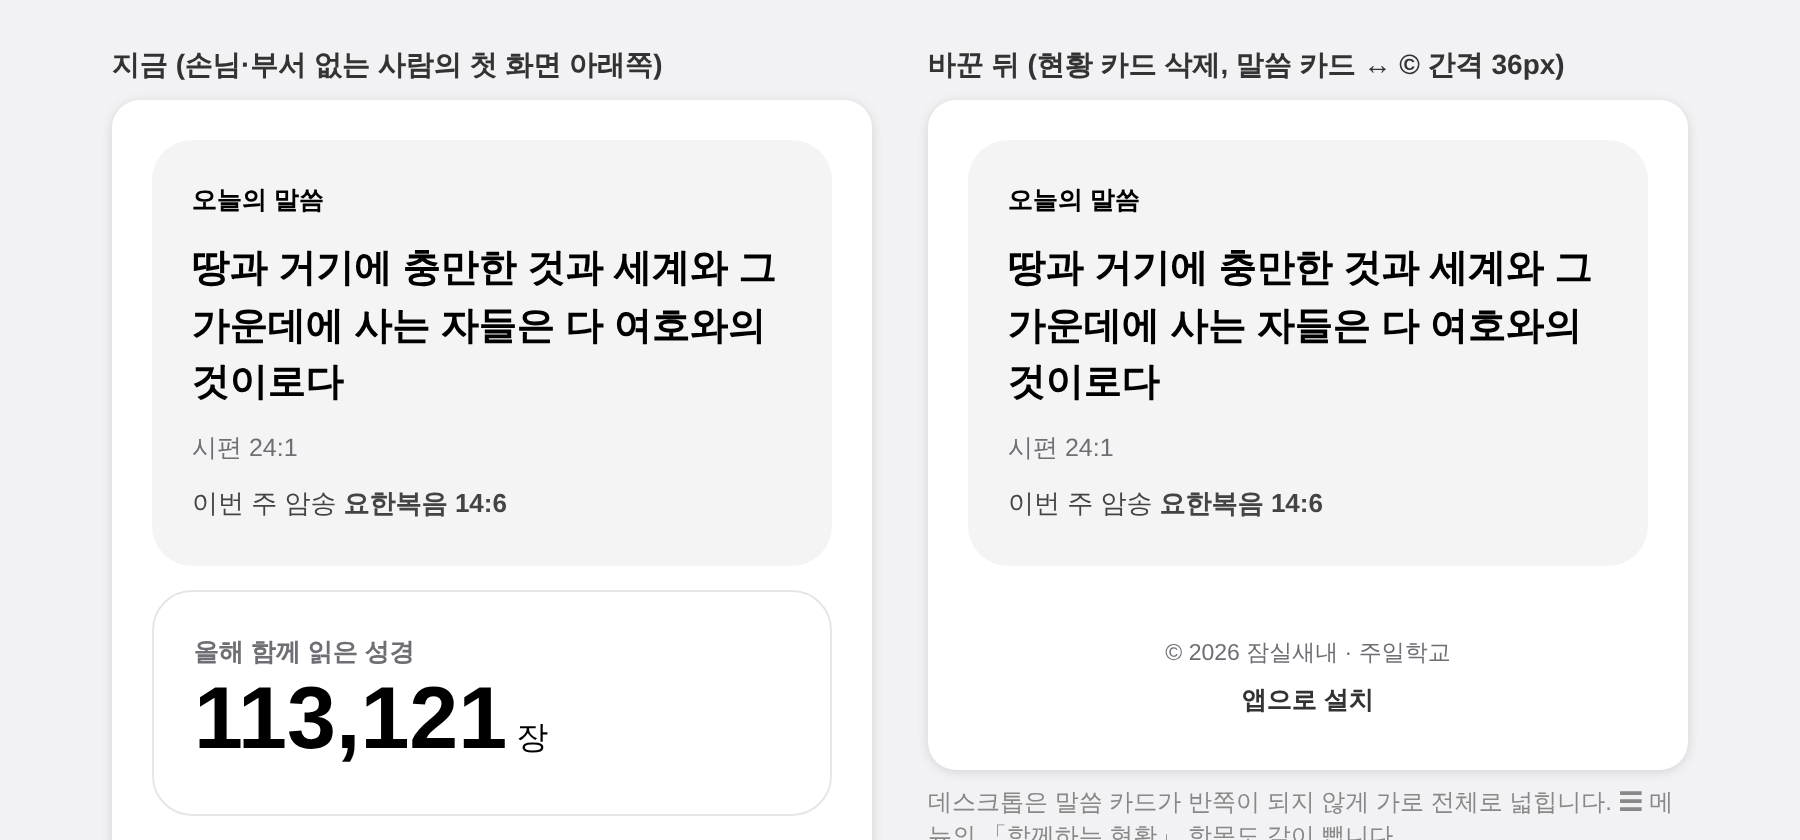
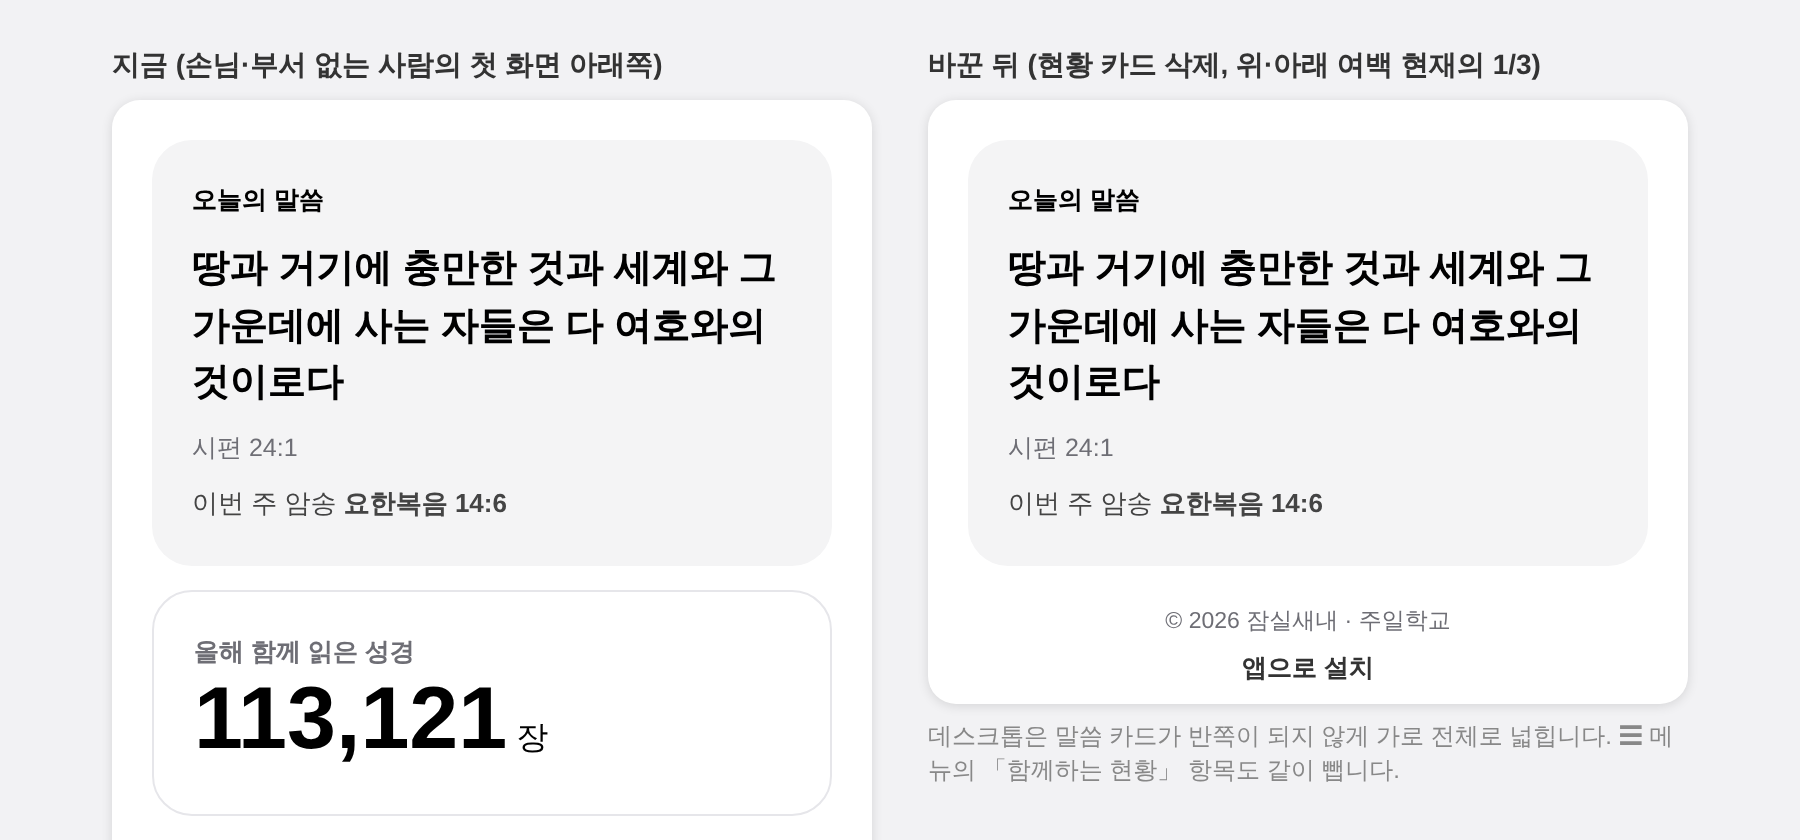
시안: 현황 카드 삭제 후 여백 1/3
Claude-Session: https://claude.ai/code/session_01CkiacwM9TYu6hxWXs6k4wP

Changed region(s): [[0.4978, 0.7119, 0.9333, 1.0], [0.6844, 0.0619, 0.8711, 0.0929]]

diff --git a/docs/design/시안/첫화면-현황카드-삭제.html b/docs/design/시안/첫화면-현황카드-삭제.html
@@ -6,7 +6,7 @@ body{margin:0;padding:24px;background:#f2f2f4;font-family:Pretendard,"Noto Sans 
 .v{background:#f4f4f5;border-radius:20px;padding:22px 20px}.v h3{margin:0;font-size:12.5px}.v q{display:block;margin:12px 0 8px;font-size:19px;font-weight:700;line-height:1.5;quotes:none}.v small{color:#6e6e75;font-size:12.5px}
 .v p{margin:10px 0 0;font-size:13px;color:#444}
 .s{border:1px solid #e6e6ea;border-radius:20px;padding:22px 20px;margin-top:12px}.s h3{margin:0;font-size:12.5px;color:#6e6e75}.s b{font-size:44px}
-.f{text-align:center;font-size:11.5px;color:#6e6e75;margin-top:26px}.f2{margin-top:36px}
+.f{text-align:center;font-size:11.5px;color:#6e6e75;margin-top:60px}.f2{margin-top:20px}.ph.t{padding-bottom:9px}
 .f a{display:block;margin-top:8px;font-weight:700;color:#333;font-size:12.5px}
 .n{font-size:12px;color:#888;margin-top:8px}
 .m{height:26px;margin:0 -20px;background:repeating-linear-gradient(90deg,#fde 0 6px,#fff 6px 12px);font-size:10px;color:#b02a6a;text-align:center;line-height:26px}
@@ -14,8 +14,8 @@ body{margin:0;padding:24px;background:#f2f2f4;font-family:Pretendard,"Noto Sans 
 <div class="col"><p class="lb">지금 (손님·부서 없는 사람의 첫 화면 아래쪽)</p><div class="ph">
 <div class="v"><h3>오늘의 말씀</h3><q>땅과 거기에 충만한 것과 세계와 그 가운데에 사는 자들은 다 여호와의 것이로다</q><small>시편 24:1</small><p>이번 주 암송 <b>요한복음 14:6</b></p></div>
 <div class="s"><h3>올해 함께 읽은 성경</h3><b>113,121</b> 장</div>
-<div class="f">© 2026 잠실새내 · 주일학교<a>앱으로 설치</a></div></div></div>
-<div class="col"><p class="lb">바꾼 뒤 (현황 카드 삭제, 말씀 카드 ↔ © 간격 36px)</p><div class="ph">
+<div class="f" style="margin-top:60px">© 2026 잠실새내 · 주일학교<a>앱으로 설치</a></div></div></div>
+<div class="col"><p class="lb">바꾼 뒤 (현황 카드 삭제, 위·아래 여백 현재의 1/3)</p><div class="ph t">
 <div class="v"><h3>오늘의 말씀</h3><q>땅과 거기에 충만한 것과 세계와 그 가운데에 사는 자들은 다 여호와의 것이로다</q><small>시편 24:1</small><p>이번 주 암송 <b>요한복음 14:6</b></p></div>
 <div class="f f2">© 2026 잠실새내 · 주일학교<a>앱으로 설치</a></div></div>
 <p class="n">데스크톱은 말씀 카드가 반쪽이 되지 않게 가로 전체로 넓힙니다. ☰ 메뉴의 「함께하는 현황」 항목도 같이 뺍니다.</p></div>
